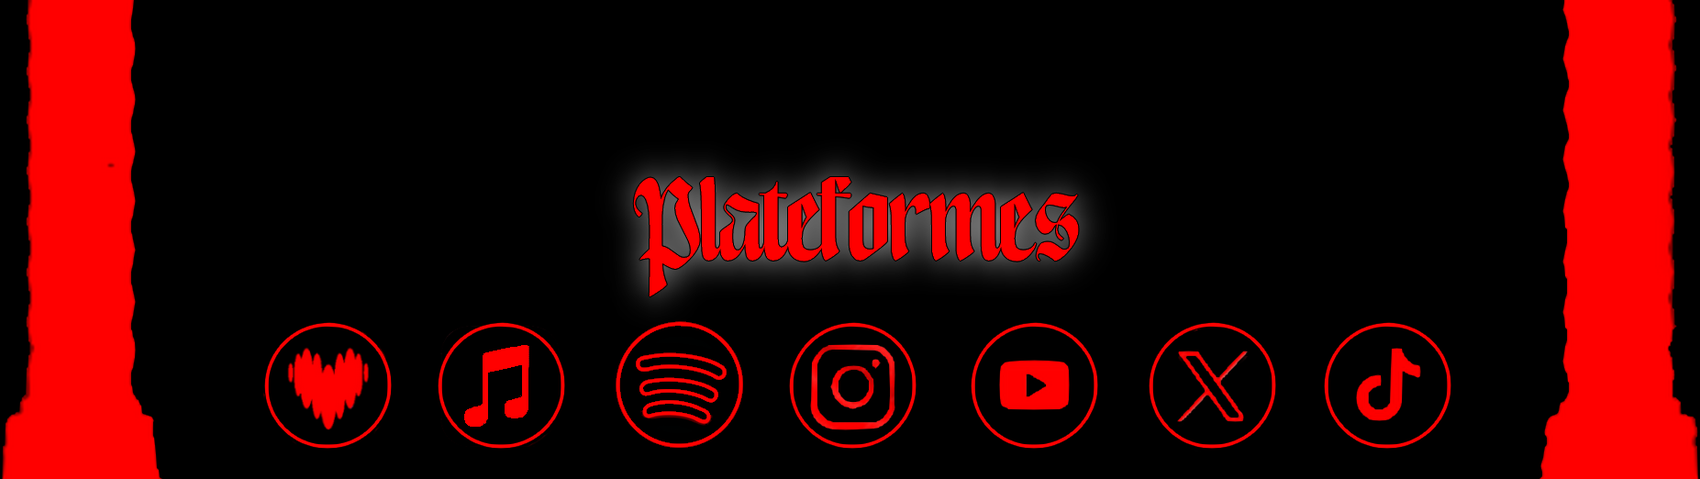
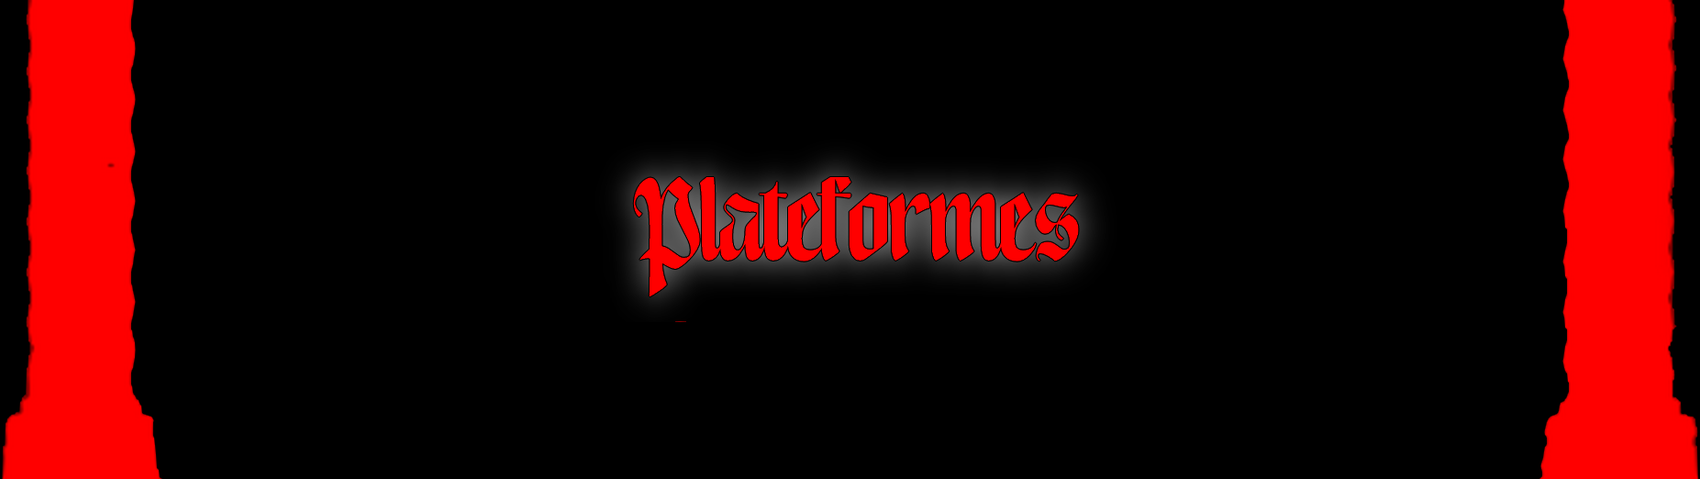
Add files via upload

diff --git a/index.html b/index.html
@@ -20,26 +20,28 @@ body{background:#000;color:#fff;font:400 2.25rem/2rem "Bebas Neue","Arial Narrow
 a{color:inherit}a:focus-visible{outline:.2rem solid #fff;outline-offset:.2rem}
 header{position:relative;display:flex;height:14.8125rem;border-bottom:.5rem solid var(--r);background:#000;overflow:hidden}
 .cre{position:relative;flex:1 1 0;min-width:0;height:14.3125rem;background:#000;display:flex;justify-content:flex-start}
-.cre .ci{display:block;height:100%;aspect-ratio:1920/990;flex:none}
-.cre .ci img{display:block;width:100%;height:100%}
-.mid{position:relative;flex:none;width:50.64rem;height:14.3125rem}
+.cre .ci{display:block;height:100%;aspect-ratio:1920/1080;flex:none}
+.cre .ci picture,.cre .ci img{display:block;width:100%;height:100%}
+.mid{position:relative;flex:none;width:52.9rem;height:14.3125rem}
 .mid>img{display:block;width:100%;height:100%}
-.mid a{position:absolute;top:67.05%;width:7.56%;height:26.82%;border-radius:50%}
-.mid a:hover{box-shadow:0 0 1.2rem rgba(255,60,60,.9)}
-.ppp{flex:1 1 0;min-width:0;height:14.3125rem;display:flex;align-items:center;justify-content:center;text-decoration:none}
-.ppp .lg{display:block;height:11.2rem;width:auto;max-width:92%;object-fit:contain}
+.mid .pf{position:absolute;left:50.4%;top:9.6rem;transform:translateX(-50%);gap:1.7rem}
+.mid .pf a{width:3.8rem;height:3.8rem}
+.ppp{position:relative;flex:1 1 0;min-width:0;height:14.3125rem;display:block;text-decoration:none}
+.ppp .lg{position:absolute;right:2.71rem;top:2.31rem;display:block;height:8.93rem;width:auto}
 .pf{display:flex;gap:1.55rem}
 .pf a{display:block;width:3.7rem;height:3.7rem;border-radius:50%;color:var(--r);box-shadow:0 0 1rem rgba(255,255,255,.18)}
 .pf a:hover{box-shadow:0 0 1.2rem rgba(255,60,60,.9);transform:scale(1.07)}
 .pf svg{display:block;width:100%;height:100%;fill:none;stroke:currentColor;stroke-width:1.5;stroke-linecap:round;stroke-linejoin:round}
 .pf .f svg circle.c{fill:none;stroke:currentColor}.pf .f svg .g{fill:none;stroke:currentColor}
 .wrap{display:grid;grid-template-columns:27.5625rem 1fr;min-height:max(calc(100vh - 14.8125rem),52.7rem)}
-nav{display:grid;grid-template-rows:9.5rem 10.6875rem 9.25rem 9.125rem 1fr;border-right:.5625rem solid var(--r);background:linear-gradient(rgba(0,0,0,.8),rgba(0,0,0,.8)),url(images/fond-vitrail.jpg) center/cover}
+nav{position:sticky;top:0;align-self:start;height:100vh;min-height:48rem;display:grid;grid-template-rows:9.5rem 10.6875rem 9.25rem 9.125rem 1fr;border-right:.5625rem solid var(--r);background:linear-gradient(rgba(0,0,0,.8),rgba(0,0,0,.8)),url(images/fond-vitrail.jpg) center/cover}
 nav a{display:flex;align-items:center;justify-content:center;text-decoration:none;border-bottom:.5rem solid var(--r)}
 nav a:last-child{border-bottom:0}
 nav span{color:var(--r);font-size:3.625rem;line-height:.8;padding:.04em .1em 0;outline:1px solid #000;outline-offset:-1px}
 nav a:hover span,nav a[aria-current] span{background:#fff}
-main{font-size:clamp(1.3rem,1.55vw,1.9rem);line-height:1.12;background:linear-gradient(rgba(0,0,128,.6),rgba(0,0,128,.6)),url(images/fond-glitch.jpg) top/cover;padding:2.75rem 2.4rem 4rem}
+main{font-size:clamp(1.3rem,1.55vw,1.9rem);line-height:1.12;background:linear-gradient(rgba(0,0,128,.6),rgba(0,0,128,.6)),url(images/fond-glitch.jpg) top/cover;padding:2.75rem 2.4rem 4rem;--mp:2.4rem;position:relative}
+main::before{content:"";position:absolute;left:0;right:0;top:0;height:3.4rem;background:linear-gradient(to bottom,rgba(0,0,0,.8),rgba(0,0,0,.35) 45%,rgba(0,0,0,0));pointer-events:none;z-index:3}
+main::after{content:"";position:absolute;left:0;top:0;bottom:0;width:3.4rem;background:linear-gradient(to right,rgba(0,0,0,.8),rgba(0,0,0,.35) 45%,rgba(0,0,0,0));pointer-events:none;z-index:3}
 .pg{display:none}.pg.on,.nojs .pg{display:block}
 .pg p{margin-bottom:1.7rem;max-width:86rem}
 h2{font:400 3.625rem/.9 "Bebas Neue",sans-serif;color:var(--r);display:inline-block;padding:.04em 0 .12em;margin:.2rem 0 1.6rem;border-bottom:.25rem solid var(--r);text-shadow:0 0 .7rem rgba(255,0,0,.55)}
@@ -78,7 +80,7 @@ header{height:auto;display:flex;flex-direction:column}
 nav{display:flex;flex-wrap:wrap;border-right:0;border-bottom:.5rem solid var(--r)}
 nav a{flex:1 1 30%;padding:1rem .4rem;border-bottom:0!important}
 nav span{font-size:2.2rem}
-main{padding:1.5rem 1.2rem 3rem;font-size:1.7rem;line-height:1.25}
+main{--mp:1.2rem;padding:1.5rem 1.2rem 3rem;font-size:1.7rem;line-height:1.25}
 h2,.btn{font-size:2rem}.alb b{font-size:2.2rem}
 .alb img{width:7rem;height:7rem}.ah{flex-direction:column}.ah img{width:12rem;height:12rem}
 .arch{grid-template-columns:1fr}.clip p{font-size:1.5rem}
@@ -96,12 +98,28 @@ h2,.btn{font-size:2rem}.alb b{font-size:2.2rem}
 .nav-icon svg{width:3.2rem;height:3.2rem;fill:none;stroke:currentColor;stroke-width:2.4;stroke-linecap:round;stroke-linejoin:round}
 nav a[aria-current] .nav-icon{color:#fff!important}
 nav a:hover .nav-icon{color:#fc0!important}
+nav a:last-child{align-self:start;height:11rem}
 .nav-txt{outline:0!important;background:none!important;padding:0!important;display:block;color:var(--r);font-size:3.4rem;line-height:.9;text-shadow:0 0 .7rem rgba(255,0,0,.55),0 0 .2rem #000;text-align:center}
 nav a[aria-current] .nav-txt{color:#fff;text-shadow:0 0 .2rem #000}
 nav a:hover .nav-txt{color:#fc0;text-shadow:0 0 .2rem #000}
 .nav-icon{display:none!important}
 @media (max-width:899px){.nav-txt{display:none!important}.nav-icon{display:flex!important}}
 .ct{display:block;width:100%;max-width:42rem;height:auto;margin-top:1.6rem;border:.25rem solid #000}
+.ib{float:right;clear:right;width:min(36%,46rem);margin:.5rem calc(-1*var(--mp)) 1.6rem 2.4rem;border:.3rem solid var(--r);border-right:0;line-height:0;background:#000}
+.ib img{display:block;width:100%;height:auto}
+.clr{clear:both}
+@media (max-width:899px){.ib{float:none;width:auto;margin:1rem calc(-1*var(--mp)) 1.2rem;border-left:0}}
+.mf{max-width:60rem;margin:1.2rem 0 2rem;background:rgba(0,0,0,.85);border:.25rem solid var(--r);padding:1.4rem 1.6rem 1rem}
+.mf[hidden]{display:none}
+.mf label{display:block;font:400 2.3rem/1 "Bebas Neue",sans-serif;color:var(--r);margin:1rem 0 .35rem}
+.mf label i{font-style:normal;color:#fc0}
+.mf input[type=email],.mf input[type=text],.mf textarea{display:block;width:100%;box-sizing:border-box;background:#000;color:#fff;border:.15rem solid var(--r);padding:.5rem .7rem;font:inherit;border-radius:0}
+.mf textarea{min-height:11rem;resize:vertical}
+.mf input:focus,.mf textarea:focus{outline:.15rem solid #fc0;outline-offset:0}
+.mf-bar{margin:1.2rem 0 .4rem!important}
+.mf button.btn{cursor:pointer;font-family:inherit}
+.mf-st{margin-left:1rem;font-size:1.05em}
+.mf-st.ok{color:#8f8}.mf-st.ko{color:#ff7a7a}
 .sr-only{position:absolute!important;width:1px!important;height:1px!important;padding:0!important;margin:-1px!important;overflow:hidden!important;clip:rect(0,0,0,0)!important;white-space:nowrap!important;border:0!important}
 .mobile-footer{display:none}
 @media (max-width:899px){
@@ -109,11 +127,11 @@ nav a:hover .nav-txt{color:#fc0;text-shadow:0 0 .2rem #000}
   header .arc,header .ppp,header .mid{display:none}
   .cre{display:block;position:relative;width:100%;height:auto;aspect-ratio:1920/990}
   .wrap{display:flex;flex-direction:column}
-  nav{order:0;display:flex;flex-wrap:nowrap;justify-content:space-around;align-items:center;width:100%;height:4.2rem;border:0;border-bottom:.25rem solid var(--r);background:#000}
+  nav{position:sticky;top:0;z-index:20;align-self:auto;min-height:0;order:0;display:flex;flex-wrap:nowrap;justify-content:space-around;align-items:center;width:100%;height:4.2rem;border:0;border-bottom:.25rem solid var(--r);background:#000}
   nav a{flex:1 1 20%;height:4.2rem;padding:0;border:0!important}
   nav span.nav-icon{font-size:1rem;line-height:1}
   .nav-icon svg{width:2.15rem;height:2.15rem;stroke-width:2.2}
-  main{order:1;padding:1.1rem .9rem 2.5rem;font-size:1.05rem;line-height:1.25}
+  main{--mp:.9rem;order:1;padding:1.1rem .9rem 2.5rem;font-size:1.05rem;line-height:1.25}
   h2{font-size:1.75rem;margin:.1rem 0 1rem}
   h3{font-size:1.3rem;margin:1.5rem 0 .7rem}
   .btn{font-size:1.05rem;margin:.25rem .35rem .25rem 0}
@@ -135,18 +153,19 @@ nav a:hover .nav-txt{color:#fc0;text-shadow:0 0 .2rem #000}
   header{display:block;height:auto}
   header .mid,header .ppp{display:none}
   .cre{display:block;position:relative;width:100%;height:auto;aspect-ratio:1920/990}
-  .cre .ci{width:100%;height:auto}
+  .cre .ci{width:100%;height:auto;aspect-ratio:1920/990}
 }
 /* Protection des images (dissuasion) */
 img{pointer-events:none;-webkit-user-drag:none;user-drag:none;-webkit-user-select:none;user-select:none;-webkit-touch-callout:none}
 a:has(img){-webkit-touch-callout:none}
+@media (max-width:899px){main::after{display:none}main::before{height:1.6rem}}
 </style>
 </head>
 <body class="nojs">
 <header>
 <h1 style="position:absolute;left:-9999px">La Créature du Marais — Tancrède Charon</h1>
-<div class="cre"><a class="ci" href="#accueil" aria-label="La Créature du Marais, accueil"><img alt="La Créature du Marais" src="images/entete-creature-v3.jpg"/></a></div>
-<div class="mid"><img alt="Plateformes" src="images/entete-milieu.png"/><a aria-label="Deezer" href="https://www.deezer.com/fr/artist/110734722" rel="noopener" target="_blank" style="left:15.54%"></a><a aria-label="Apple Music" href="https://music.apple.com/fr/artist/cul-pointu/1535689871" rel="noopener" target="_blank" style="left:25.69%"></a><a aria-label="Spotify" href="https://open.spotify.com/artist/6TyTUlT9oP50a9Wdi4qc7J" rel="noopener" target="_blank" style="left:36.21%"></a><a aria-label="Instagram" href="https://www.instagram.com/lacreaturedumarais/" rel="noopener" target="_blank" style="left:46.41%"></a><a aria-label="YouTube" href="https://www.youtube.com/@LaCreatureduMarais" rel="noopener" target="_blank" style="left:57.1%"></a><a aria-label="X" href="https://x.com/TancredeCharon" rel="noopener" target="_blank" style="left:67.57%"></a><a aria-label="TikTok" href="https://www.tiktok.com/@lacreaturedumarais" rel="noopener" target="_blank" style="left:77.82%"></a></div>
+<div class="cre"><a class="ci" href="#accueil" aria-label="La Créature du Marais, accueil"><picture><source media="(max-width:899px)" srcset="images/entete-creature-v3.jpg"/><img alt="La Créature du Marais" src="images/entete-creature-v4.jpg"/></picture></a></div>
+<div class="mid"><img alt="Plateformes" src="images/entete-milieu.png"/><div class="pf"><a aria-label="Deezer" class="f" href="https://www.deezer.com/fr/artist/110734722" rel="noopener" target="_blank"><svg aria-hidden="true" viewbox="0 0 60 60"><circle class="c" cx="30" cy="30" r="29"></circle><path class="g" d="M30 45L17 32c-4-4-3-11 2-12 4-1 8 1 11 5 3-4 7-6 11-5 5 1 6 8 2 12z"></path></svg></a><a aria-label="Apple Music" class="f" href="https://music.apple.com/fr/artist/cul-pointu/1535689871" rel="noopener" target="_blank"><svg aria-hidden="true" viewbox="0 0 60 60"><circle class="c" cx="30" cy="30" r="29"></circle><path class="g" d="M25 17l15-3v22a5 5 0 1 1-3-4.500V21l-9 2v16a5 5 0 1 1-3-4.500z"></path></svg></a><a aria-label="Spotify" class="f" href="https://open.spotify.com/artist/6TyTUlT9oP50a9Wdi4qc7J" rel="noopener" target="_blank"><svg aria-hidden="true" viewbox="0 0 60 60"><circle class="c" cx="30" cy="30" r="29"></circle><path class="g" d="M16 24c9-3 20-2 28 2l-2 3c-7-4-17-5-24-2zM18 31c8-2 16-1 23 3l-2 3c-6-3-14-4-20-2zM20 38c6-1 12 0 17 3l-2 3c-5-3-10-3-14-2z"></path></svg></a><a aria-label="Instagram" class="" href="https://www.instagram.com/lacreaturedumarais/" rel="noopener" target="_blank"><svg aria-hidden="true" viewbox="0 0 60 60"><circle cx="30" cy="30" r="28.5"></circle><rect height="28" rx="8" width="28" x="16" y="16"></rect><circle cx="30" cy="30" r="6.500"></circle><circle cx="38.500" cy="21.500" fill="currentColor" r="1"></circle></svg></a><a aria-label="YouTube" class="" href="https://www.youtube.com/@LaCreatureduMarais" rel="noopener" target="_blank"><svg aria-hidden="true" viewbox="0 0 60 60"><circle cx="30" cy="30" r="28.5"></circle><rect height="22" rx="7" width="32" x="14" y="19"></rect><path d="M27 25v10l9-5z" fill="currentColor"></path></svg></a><a aria-label="X" class="" href="https://x.com/TancredeCharon" rel="noopener" target="_blank"><svg aria-hidden="true" viewbox="0 0 60 60"><circle cx="30" cy="30" r="28.5"></circle><path d="M19 17l22 26M41 17L19 43"></path></svg></a><a aria-label="TikTok" class="" href="https://www.tiktok.com/@lacreaturedumarais" rel="noopener" target="_blank"><svg aria-hidden="true" viewbox="0 0 60 60"><circle cx="30" cy="30" r="28.5"></circle><path d="M32 17v18a5.500 5.500 0 1 1-5.500-5.500"></path><path d="M32 17c.5 4 3 6.500 7 7"></path></svg></a></div></div>
 <a aria-label="Archives PUANTEUR PUTRIDE Productions" class="ppp" href="#archives"><img alt="PUANTEUR PUTRIDE Productions" class="lg" src="images/logo-ppp-entete.jpg"/></a>
 </header>
 <div class="wrap">
@@ -159,8 +178,10 @@ a:has(img){-webkit-touch-callout:none}
 </nav>
 <main>
 <section class="pg on" id="accueil"><p>La Créature du Marais, surnommée "Cul-Pointu", de son vrai nom Tancrède Charon est un artiste underground normand basé en sa capitale : Rouen.</p>
+<figure class="ib" style="margin-top:.5rem"><img alt="La Créature du Marais lisant un magazine" loading="lazy" src="images/accueil-demonia.jpg"/></figure>
 <p>Son univers met en scène une « post-France » en ruines, hantée par la perte du sacré, l'isolement et la sensation d'effondrement culturel. Rouen y devient une ville mentale et symbolique : cité gothique, marécage spirituel, refuge brumeux d'un poète errant entre désir de pureté et fascination pour la chute.</p>
-<p>Influencé par Baudelaire, Rabelais, Villon, Huysmans, Verlaine ou Céline, Tancrède mêle romantisme noir, catholicisme mystique, poésie médiévale et culture internet dans une écriture où le sublime côtoie constamment l'ordurier. Son œuvre explore la culpabilité, la solitude, l'amour obsessionnel, le péché, la honte et le besoin impossible de rédemption. Les figures féminines y apparaissent comme des muses idéalisées puis détruites par le désir, tandis que la religion devient à la fois refuge, obsession et combat intérieur. Derrière la provocation, l'humour noir et l'outrance volontaire se dessine surtout le portrait d'une bête hantée par la peur de la damnation, la nostalgie d'un absolu inaccessible et le sentiment de se repentir trop tard dans un monde vidé d'espoir.</p></section>
+<!-- emplacement image « jb » : <figure class="ib"><img alt="" src="images/accueil-jb.jpg"/></figure> -->
+<p>Influencé par Baudelaire, Rabelais, Villon, Huysmans, Verlaine ou Céline, Tancrède mêle romantisme noir, catholicisme mystique, poésie médiévale et culture internet dans une écriture où le sublime côtoie constamment l'ordurier. Son œuvre explore la culpabilité, la solitude, l'amour obsessionnel, le péché, la honte et le besoin impossible de rédemption. Les figures féminines y apparaissent comme des muses idéalisées puis détruites par le désir, tandis que la religion devient à la fois refuge, obsession et combat intérieur. Derrière la provocation, l'humour noir et l'outrance volontaire se dessine surtout le portrait d'une bête hantée par la peur de la damnation, la nostalgie d'un absolu inaccessible et le sentiment de se repentir trop tard dans un monde vidé d'espoir.</p><div class="clr"></div></section>
 <section class="pg" id="biographie"><h2>BIOGRAPHIE</h2><p>La Créature du Marais, surnommée "Cul-Pointu", de son vrai nom Tancrède Charon est un artiste underground normand associé à la ville de Rouen et au projet-label PUANTEUR PUTRIDE Productions.</p>
 <p>Son univers mêle musique expérimentale, poésie décadente, chant parlé, dark ambient, esthétique black metal et autofiction performative. Bien plus qu'un simple projet musical, il constitue une œuvre totale où se confondent personnage, esthétique, confession intime et mise en scène artistique.</p>
 <p>L'identité de la Créature repose sur une figure de poète maudit contemporain évoluant dans une France perçue comme décadente, épuisée spirituellement et culturellement. Son travail développe une vision de la « post-France », un monde en ruines où subsistent les vestiges du catholicisme, du romantisme noir et des mythologies européennes, réinterprétés à travers les codes d'internet, de la culture underground et des réseaux sociaux.</p>
@@ -256,7 +277,16 @@ a:has(img){-webkit-touch-callout:none}
 </section>
 <section class="pg" id="clips"><h2>CLIPS</h2><div class="gal"><div class="clip"><iframe src="https://www.youtube.com/embed/A_SfjREwRWI" title="Cul-Pointu - Chimaera Rothomagensis (Clip officiel)" loading="lazy" frameborder="0" allow="accelerometer; autoplay; clipboard-write; encrypted-media; gyroscope; picture-in-picture; web-share" referrerpolicy="strict-origin-when-cross-origin" allowfullscreen></iframe><p>Chimaera Rothomagensis</p></div><div class="clip"><iframe src="https://www.youtube.com/embed/bThq8uPYgFA" title="Cul-Pointu - La côte Sainte-Catherine (Clip officiel)" loading="lazy" frameborder="0" allow="accelerometer; autoplay; clipboard-write; encrypted-media; gyroscope; picture-in-picture; web-share" referrerpolicy="strict-origin-when-cross-origin" allowfullscreen></iframe><p>La côte Sainte-Catherine</p></div><div class="clip"><iframe src="https://www.youtube.com/embed/34-C5ls5eWM" title="Cul-Pointu - La Chute (Clip officiel)" loading="lazy" frameborder="0" allow="accelerometer; autoplay; clipboard-write; encrypted-media; gyroscope; picture-in-picture; web-share" referrerpolicy="strict-origin-when-cross-origin" allowfullscreen></iframe><p>La Chute</p></div><div class="clip"><iframe src="https://www.youtube.com/embed/65E0wA7msv4" title="Cul-Pointu - Dis, ferme un instant les yeux (Clip officiel, version censurée)" loading="lazy" frameborder="0" allow="accelerometer; autoplay; clipboard-write; encrypted-media; gyroscope; picture-in-picture; web-share" referrerpolicy="strict-origin-when-cross-origin" allowfullscreen></iframe><p>Dis, ferme un instant les yeux · version censurée</p></div></div></section>
 <section class="pg" id="nouvelles"><h2>NOUVELLES</h2><p>Dernière sortie : Jubilé, single, décembre 2025.</p><a class="alb" href="#album-jubile"><img alt="Pochette Jubilé" src="images/pochette-jubile.jpg"/><div><b>Jubilé</b><span>2025 · Single · 1 titre · 3 min 34 s</span></div></a></section>
-<section class="pg" id="contact"><h2>CONTACT</h2><p><a class="btn" href="mailto:puanteur.putride.productions@gmail.com">PUANTEUR.PUTRIDE.PRODUCTIONS@GMAIL.COM</a></p><img class="ct" alt="Illustration PUANTEUR PUTRIDE Productions" loading="lazy" src="images/contact.jpg"/></section>
+<section class="pg" id="contact"><h2>CONTACT</h2>
+<p><a aria-controls="mailbox" aria-expanded="false" class="btn" href="mailto:puanteur.putride.productions@gmail.com" id="mailbtn">PUANTEUR.PUTRIDE.PRODUCTIONS@GMAIL.COM</a><a class="btn" href="https://www.instagram.com/lacreaturedumarais/" rel="noopener" target="_blank">INSTAGRAM</a></p>
+<form class="mf" hidden id="mailbox" method="post">
+<label for="mf-email">VOTRE E-MAIL <i>*</i></label><input autocomplete="email" id="mf-email" maxlength="200" name="email" required type="email"/>
+<label for="mf-obj">OBJET <i>*</i></label><input id="mf-obj" maxlength="200" name="objet" required type="text"/>
+<label for="mf-msg">MESSAGE <i>*</i></label><textarea id="mf-msg" maxlength="5000" name="message" required rows="8"></textarea>
+<input autocomplete="off" name="_honey" style="display:none" tabindex="-1" type="text"/>
+<p class="mf-bar"><button class="btn" type="submit">ENVOYER</button><span aria-live="polite" class="mf-st" id="mf-st"></span></p>
+</form>
+<img class="ct" alt="Illustration PUANTEUR PUTRIDE Productions" loading="lazy" src="images/contact.jpg"/></section>
 <section class="pg" id="archives"><small class="k">04 — ARCHIVES</small><div class="arch"><div><h2>AVANT LE MARAIS</h2><p>PUANTEUR PUTRIDE constitue la couche archéologique du projet : une archive de productions et d'expérimentations qui précède et accompagne l'apparition de La Créature du Marais.</p>
 <p>Avant le marais, il y eut la boue. Brouillons, machines, cris enregistrés, premières bêtes : tout ce qui s'est entassé là avant que la Créature n'ait un nom. Ce ne sont pas des œuvres, ce sont des gravats, ce qui reste d'une cathédrale quand on n'a pas encore posé la première pierre.</p>
 <p>Les Machines Infernales, en 2021, marquent l'entrée de ces fragments dans le disque. Mais les premières messes sourdes de Cul-Pointu dorment plus bas, dans les archives : qui y descend y trouve le chantier de la mythologie.</p></div><aside><p>Les premières traces, les brouillons, les gravats.</p><a class="btn" href="https://soundcloud.com/puanteurputride" rel="noopener" target="_blank">OUVRIR LES ARCHIVES →</a></aside></div></section>
@@ -292,6 +322,26 @@ function im(e){return e.target&&e.target.tagName==="IMG"}
 document.addEventListener("contextmenu",function(e){if(im(e)||(e.target.closest&&e.target.closest("a")&&e.target.closest("a").querySelector("img")))e.preventDefault()});
 document.addEventListener("dragstart",function(e){if(im(e)||(e.target.closest&&e.target.closest("a:has(img)")))e.preventDefault()});
 [].slice.call(document.images).forEach(function(i){i.setAttribute("draggable","false")});
+})();
+</script>
+<script>
+(function(){
+var b=document.getElementById("mailbtn"),f=document.getElementById("mailbox"),st=document.getElementById("mf-st");
+if(!b||!f)return;
+b.addEventListener("click",function(e){e.preventDefault();var h=f.hasAttribute("hidden");
+if(h){f.removeAttribute("hidden");b.setAttribute("aria-expanded","true");document.getElementById("mf-email").focus()}
+else{f.setAttribute("hidden","");b.setAttribute("aria-expanded","false")}});
+f.addEventListener("submit",function(e){e.preventDefault();
+if(f.elements["_honey"].value)return;
+var d={email:f.elements.email.value.trim(),objet:f.elements.objet.value.trim(),message:f.elements.message.value.trim(),_subject:"[Site] "+f.elements.objet.value.trim(),_template:"table",_captcha:"false"};
+var btn=f.querySelector("button");btn.disabled=true;st.className="mf-st";st.textContent="Envoi en cours…";
+fetch("https://formsubmit.co/ajax/puanteur.putride.productions@gmail.com",{method:"POST",headers:{"Content-Type":"application/json","Accept":"application/json"},body:JSON.stringify(d)})
+.then(function(r){return r.json()}).then(function(j){
+if(j&&(j.success==="true"||j.success===true)){st.className="mf-st ok";st.textContent="Message envoyé.";f.reset()}
+else{throw new Error("ko")}})
+.catch(function(){st.className="mf-st ko";st.innerHTML="Échec de l’envoi. Écrivez directement à <a href='mailto:puanteur.putride.productions@gmail.com'>puanteur.putride.productions@gmail.com</a>."})
+.then(function(){btn.disabled=false});
+});
 })();
 </script>
 </body>
